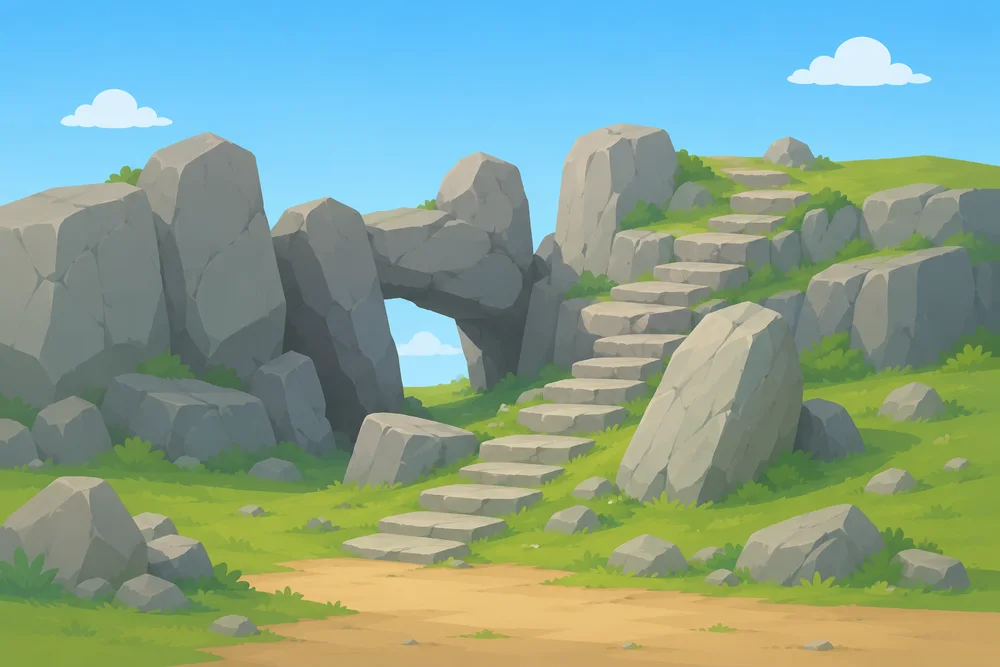
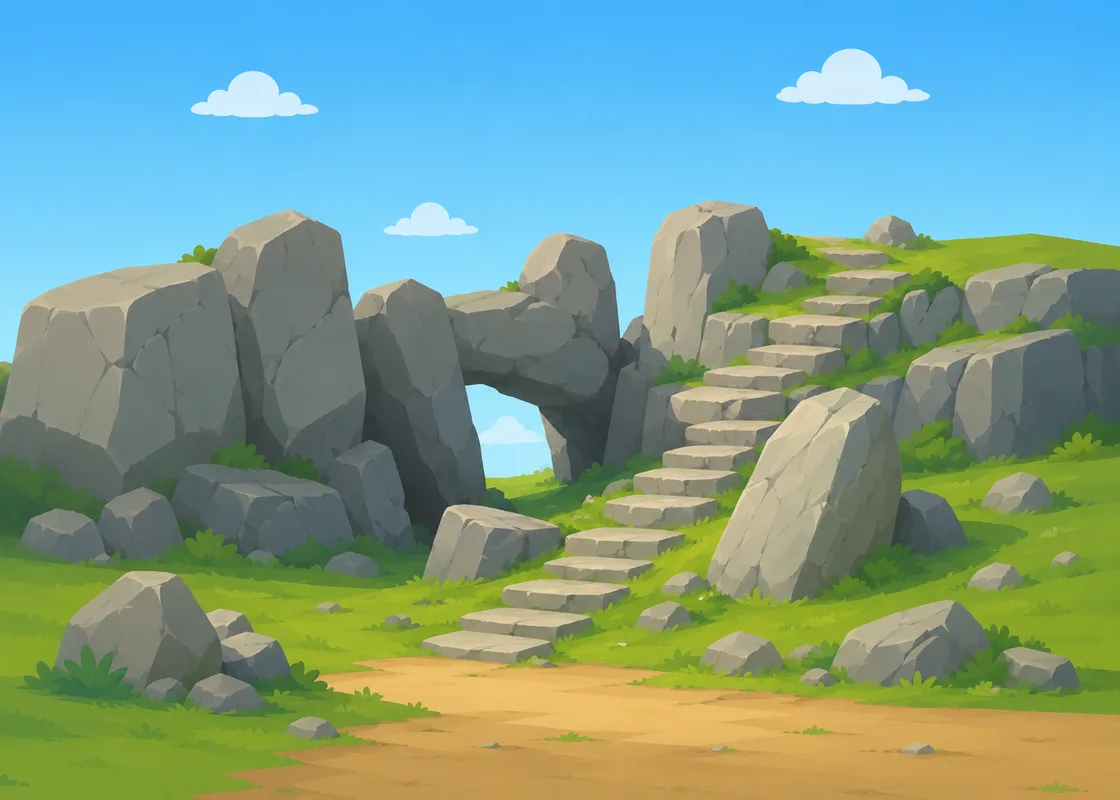
feat: 바위산 배경 v2 — 1.4:1 큰 카드 (10/12)
- 1484x1060 = 1.4:1 새 원화 적용 (width 1120, 47KB), v1 원본은 규칙대로 삭제
- 아래 흙길(bottom 13%)에서 돌계단을 따라 오른쪽 위(bottom 52%)로 대각선 등반
- 도착 만세는 계단 꼭대기 (xa 73·aB 55)
- 화면 확인: 3상태 모두 잘림 없음 — 계단 라인과 이동선이 맞는다

Claude-Session: https://claude.ai/code/session_018maNuYqDfFyRSe9uKpZhPR

diff --git a/src/data/expeditions.js b/src/data/expeditions.js
@@ -145,12 +145,14 @@ export const EXPEDITIONS = {
     /* Ch3 바위산 — 바위를 오른다 */
     mounts:["goat","cablecar","deer","horse","eagle","unicorn"],
     pose:"walk", item:"rope", goal:"🚩", goalImg:"assets/expedition/flag/red.webp",   // 정상 정복 = 빨간 깃발
-    bgImg:"assets/expedition/bg-mountain.webp",   // 사용자 배경 원화 (바위산 — 원본 art-src/expedition/bg/)
+    bgImg:"assets/expedition/bg-mountain.webp",   // 사용자 배경 원화 v2 (1.4:1 — 큰 카드용, 원본 art-src)
     scene:{ sky:["#CDE6F5","#F2EFE2"], ground:["#B9C9A0","#8FA878"], groundH:38,
-      /* 대각선 등반 — 왼쪽 아래 모랫길에서 돌계단을 따라 오른쪽 위 정상으로.
+      bgAR:1.4,
+      /* 대각선 등반 — 아래 흙길(bottom 14%)에서 돌계단을 따라 오른쪽 위(bottom 52%)로.
          charB(출발 높이)→charB1(도착 높이)을 진행률에 따라 보간한다 */
-      charB:6, charB1:56, goalB:60, x0:12, x1:79,
-      xi:12, iB:6, aB:56,
+      charB:13, charB1:52, x0:16, x1:68,
+      xi:16, iB:13,
+      xa:73, aB:55, gx:82, goalB:58,
       deco:[[7,26,"🏔",30],[14,64,"🌲",18],[92,24,"☁",18],[88,64,"🪨",15],[5,84,"🌼",11]] } },
   forest: { key:"forest", title:"숲을 통과하자!", emoji:"🌳",
     /* Ch4 깊은 숲 — 숲길을 통과한다 */

diff --git a/art-src/README.md b/art-src/README.md
@@ -160,7 +160,7 @@ halo가 외곽선을 흐려서 생긴 착시였다.
 | expedition/char/common-idle-src.webp | 탐험 씬 기본 서있기 포즈 (미션 0개일 때 출발지 대기 — halo 보정 후 탑재) | expedition/char/common-idle.webp |
 | expedition/bg/bg-river-v4-src.webp | 강 배경 v4 (1484×1060 = 1.4:1 — 큰 카드용 재제작, 현행) | expedition/bg-river.webp |
 | expedition/flag/{red,blue,green,yellow}-src.webp | 도착 깃발 4색 (빨강 잎가지·파랑 물방울·초록 잎·노랑 별 — halo 보정 후 탑재) | expedition/flag/*.webp |
-| expedition/bg/bg-mountain-src.webp | 바위산 배경 (화요일, 1536×1024 — 돌계단 대각선 등반) | expedition/bg-mountain.webp |
+| expedition/bg/bg-mountain-v2-src.webp | 바위산 배경 v2 (1484×1060 = 1.4:1 — 큰 카드용 재제작, 돌계단 대각선 등반, 현행) | expedition/bg-mountain.webp |
 | expedition/bg/bg-forest-v3-src.webp | 깊은 숲 배경 v3 (1484×1060 = 1.4:1 — 큰 카드용 재제작, 여우·부엉이·개울, 현행) | expedition/bg-forest.webp |
 | expedition/bg/bg-wood-v3-src.webp | 숲길 산책 배경 v3 (1484×1060 = 1.4:1 — 큰 카드용 재제작, 현행) | expedition/bg-wood.webp |
 | expedition/bg/bg-cave-v3-src.webp | 동굴 배경 v3 (1483×1061 = 1.4:1 — 큰 카드용 재제작, 현행) | expedition/bg-cave.webp |
